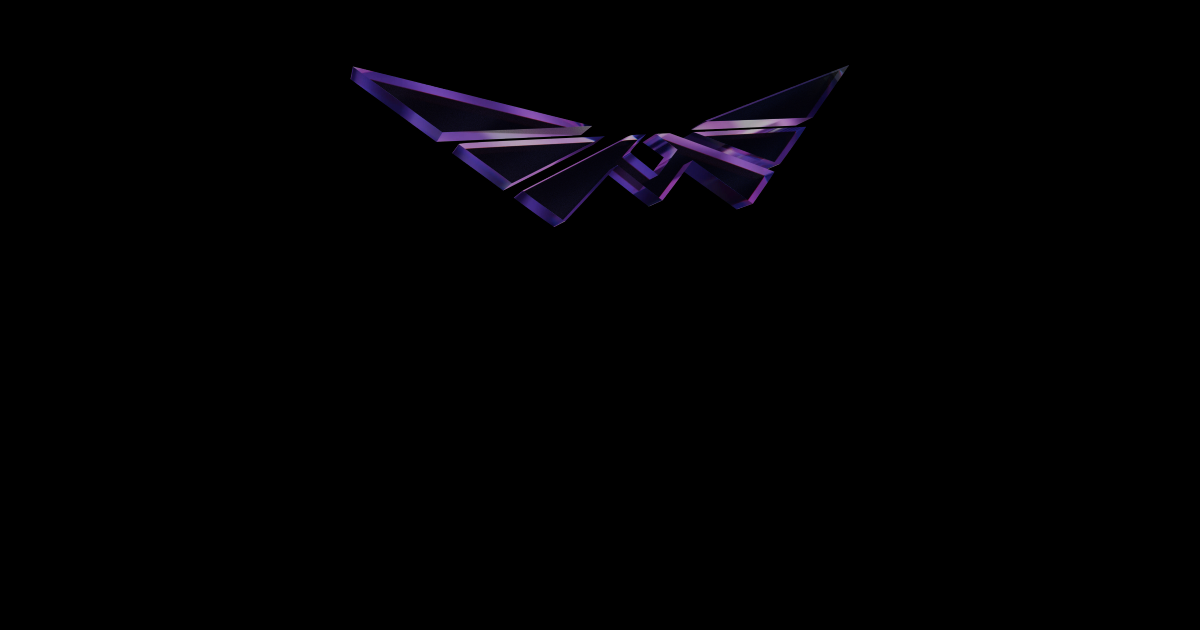
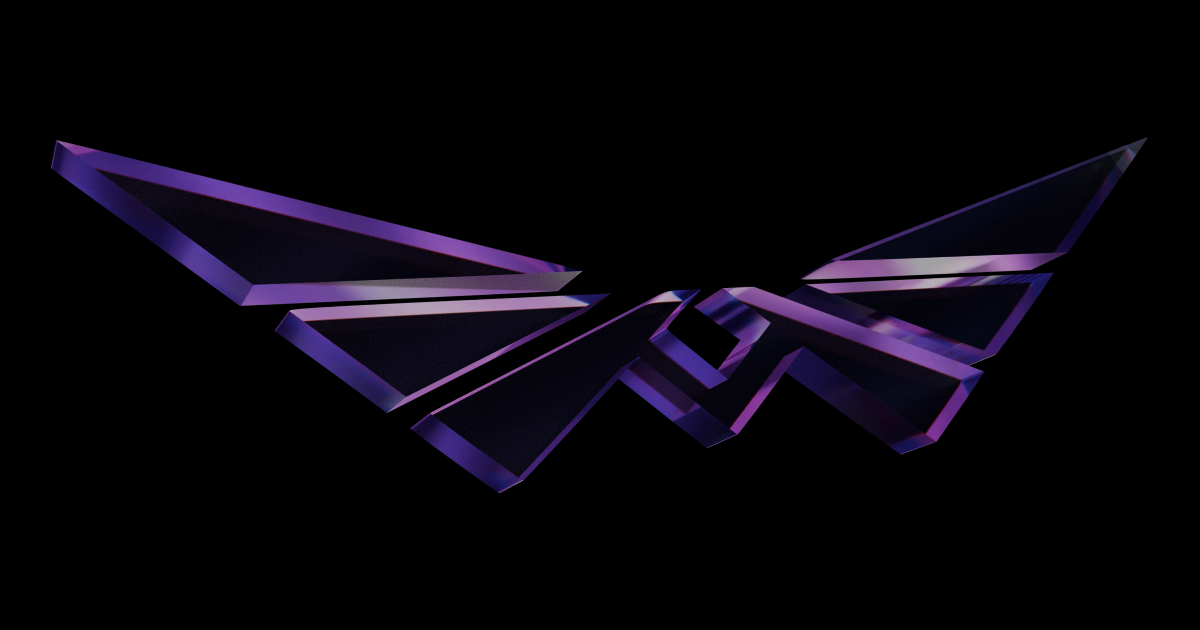
Fix og-image dimensions, bump to v6

Changed region(s): [[0.0308, 0.2111, 0.9558, 0.7841], [0.2775, 0.0905, 0.6783, 0.3619], [0.6475, 0.0905, 0.7092, 0.181]]

diff --git a/faq/index.html b/faq/index.html
@@ -11,12 +11,12 @@
     <meta property="og:type" content="website">
     <meta property="og:title" content="FAQ - Beamed">
     <meta property="og:description" content="Frequently asked questions about Beamed. Installation, detection, supported versions, and more.">
-    <meta property="og:image" content="https://beamed.pro/og-image.png?v=5">
+    <meta property="og:image" content="https://beamed.pro/og-image.png?v=6">
     <meta property="og:url" content="https://beamed.pro/faq/">
     <meta name="twitter:card" content="summary">
     <meta name="twitter:title" content="FAQ - Beamed">
     <meta name="twitter:description" content="Frequently asked questions about Beamed.">
-    <meta name="twitter:image" content="https://beamed.pro/og-image.png?v=5">
+    <meta name="twitter:image" content="https://beamed.pro/og-image.png?v=6">
     <link rel="preconnect" href="https://fonts.googleapis.com">
     <link rel="preconnect" href="https://fonts.gstatic.com" crossorigin>
     <link href="https://fonts.googleapis.com/css2?family=Plus+Jakarta+Sans:ital,wght@0,200..800;1,200..800&display=swap" rel="stylesheet">

diff --git a/index.html b/index.html
@@ -13,12 +13,12 @@
     <meta property="og:type" content="website">
     <meta property="og:title" content="Beamed - The most powerful Minecraft utility">
     <meta property="og:description" content="Non-injectable and undetected. The most powerful Minecraft utility — aim assist, ESP, and more.">
-    <meta property="og:image" content="https://beamed.pro/og-image.png?v=5">
+    <meta property="og:image" content="https://beamed.pro/og-image.png?v=6">
     <meta property="og:url" content="https://beamed.pro/">
     <meta name="twitter:card" content="summary">
     <meta name="twitter:title" content="Beamed - The most powerful Minecraft utility">
     <meta name="twitter:description" content="Non-injectable and undetected. The most powerful Minecraft utility — aim assist, ESP, and more.">
-    <meta name="twitter:image" content="https://beamed.pro/og-image.png?v=5">
+    <meta name="twitter:image" content="https://beamed.pro/og-image.png?v=6">
     <link rel="preconnect" href="https://fonts.googleapis.com">
     <link rel="preconnect" href="https://fonts.gstatic.com" crossorigin>
     <link href="https://fonts.googleapis.com/css2?family=Plus+Jakarta+Sans:ital,wght@0,200..800;1,200..800&display=swap" rel="stylesheet">

diff --git a/modules/index.html b/modules/index.html
@@ -11,12 +11,12 @@
     <meta property="og:type" content="website">
     <meta property="og:title" content="Modules - Beamed">
     <meta property="og:description" content="Every module you need. Aim assist, ESP, inventory manager, screenshare protection, and more.">
-    <meta property="og:image" content="https://beamed.pro/og-image.png?v=5">
+    <meta property="og:image" content="https://beamed.pro/og-image.png?v=6">
     <meta property="og:url" content="https://beamed.pro/modules/">
     <meta name="twitter:card" content="summary">
     <meta name="twitter:title" content="Modules - Beamed">
     <meta name="twitter:description" content="Every module you need. Aim assist, ESP, screenshare protection, and more.">
-    <meta name="twitter:image" content="https://beamed.pro/og-image.png?v=5">
+    <meta name="twitter:image" content="https://beamed.pro/og-image.png?v=6">
     <link rel="preconnect" href="https://fonts.googleapis.com">
     <link rel="preconnect" href="https://fonts.gstatic.com" crossorigin>
     <link href="https://fonts.googleapis.com/css2?family=Plus+Jakarta+Sans:ital,wght@0,200..800;1,200..800&display=swap" rel="stylesheet">